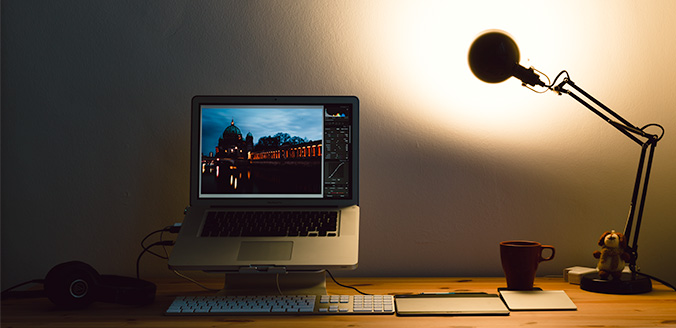
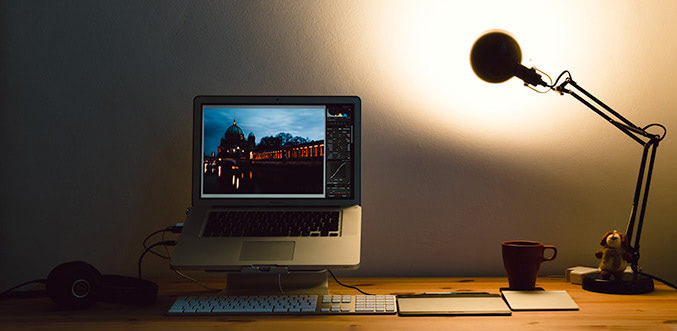
Fix image sizes on about page

diff --git a/src/layouts/About.js b/src/layouts/About.js
@@ -120,15 +120,15 @@ const AboutPage = ({
 					span="double"
 					src="/images/about/workplace.jpg"
 					alt="Artem Sapegin’s workplace"
-					width="676"
-					height="328"
+					width="677"
+					height="331"
 					responsive={false}
 				/>
 				<Image
 					src="/images/about/iphone.jpg"
 					alt="Photo edition in VSCO Cam on iPhone"
-					width="328"
-					height="328"
+					width="331"
+					height="331"
 					responsive={false}
 				/>
 			</Box>
